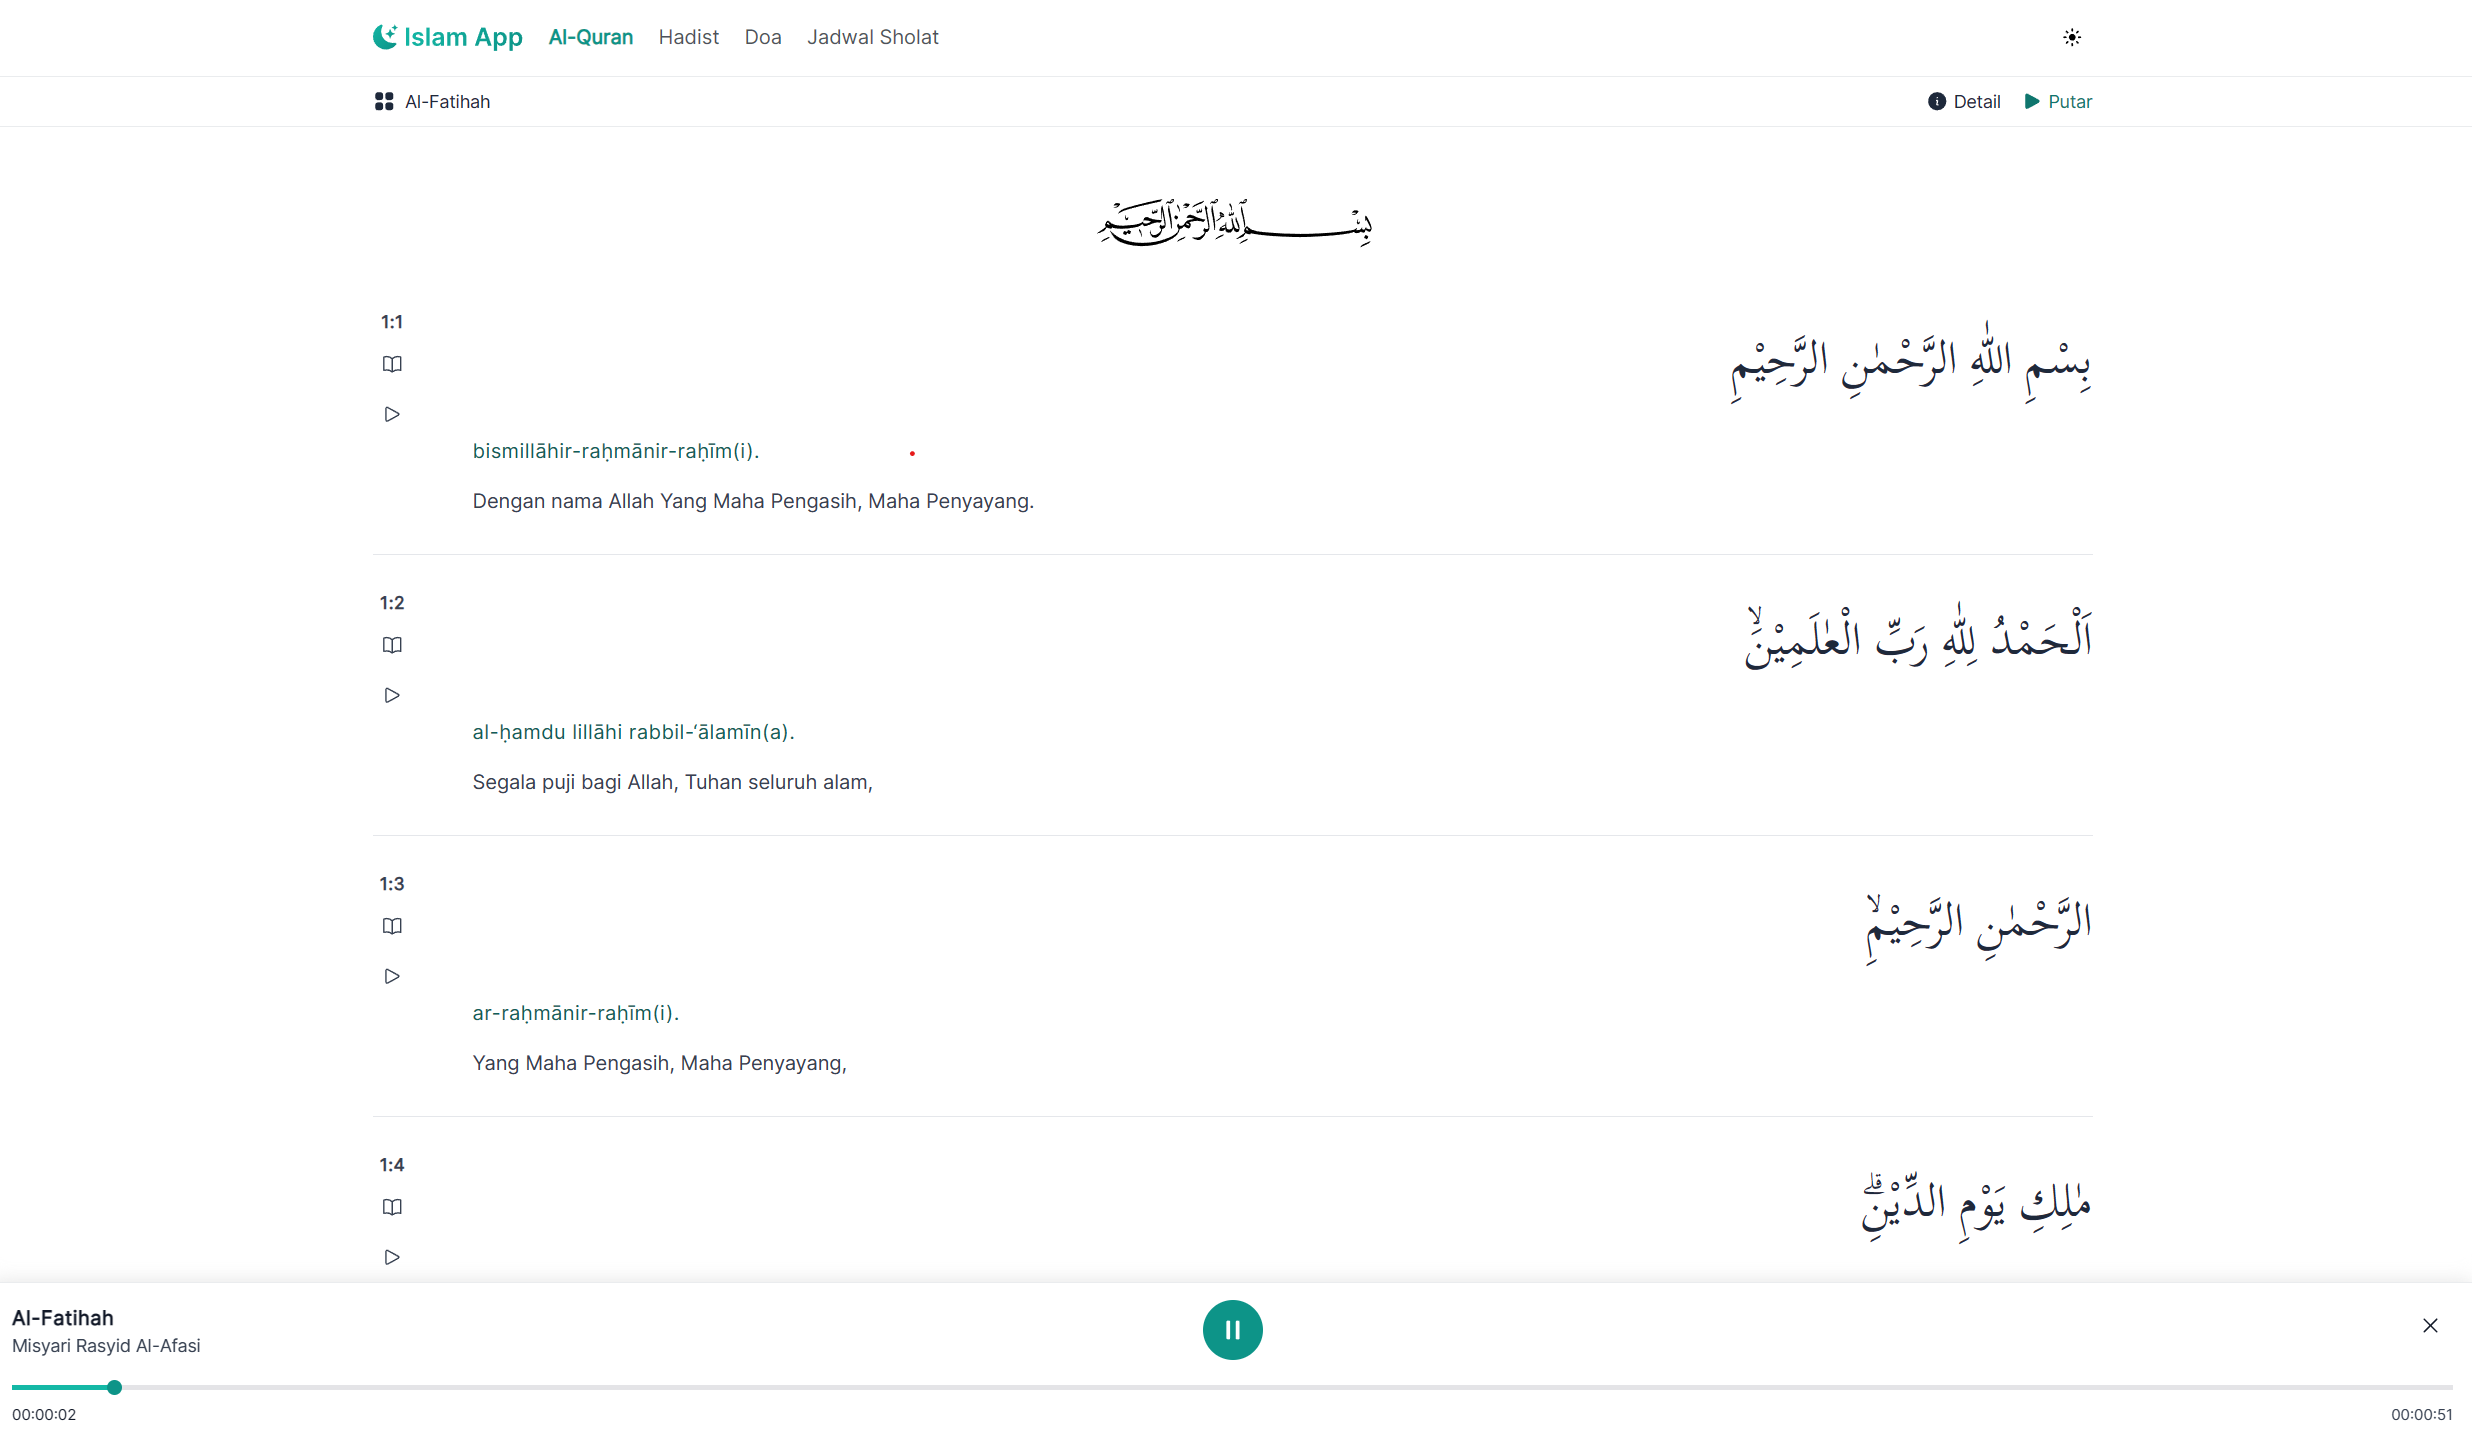
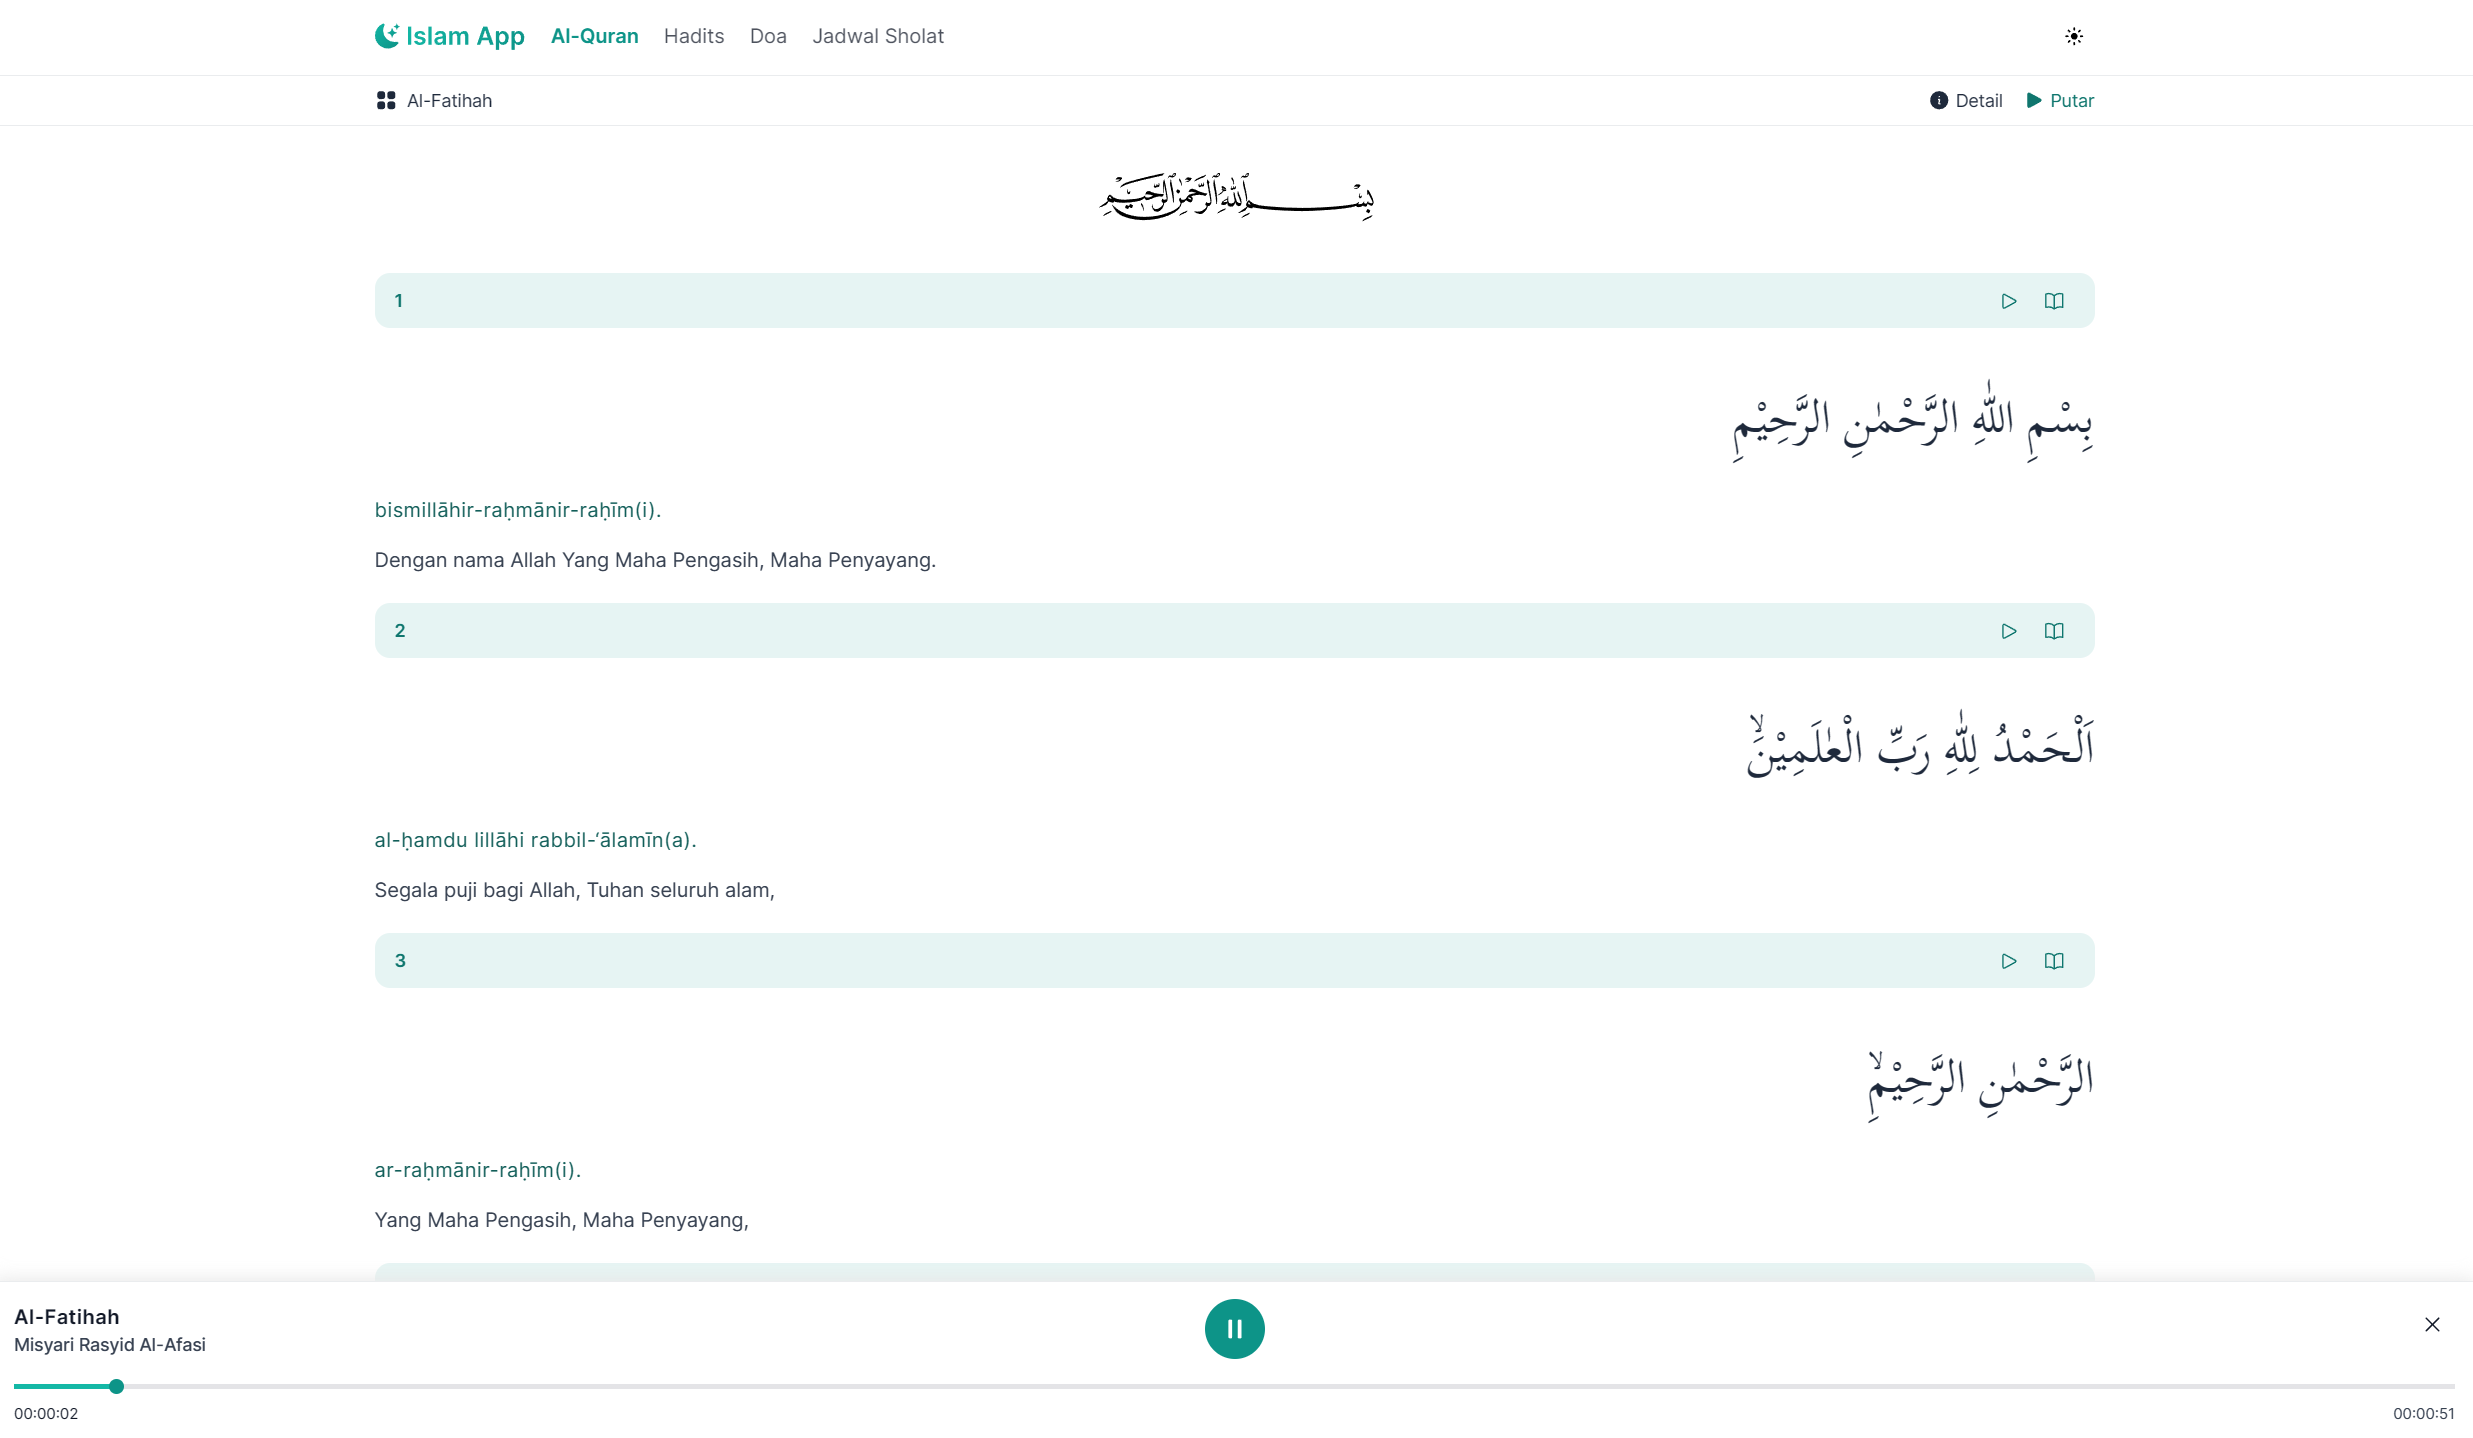
update readme

diff --git a/README.md b/README.md
@@ -23,6 +23,7 @@
 - Prayer List
 - Play Surah Audio
 - Prayer Schedule (coming soon)
+- PWA (Progressive Web App)
 
 <br>
 
@@ -35,8 +36,6 @@
 <br>
 
 ## :art: Preview
-
-<b>Note:</b> Temporary look inspired by [Quran.com](https://quran.com/)
 
 <img src="https://github.com/ionivetech/islam-app/blob/main/public/screenshot/alquran-list.png" alt="alquran-list" />
 
